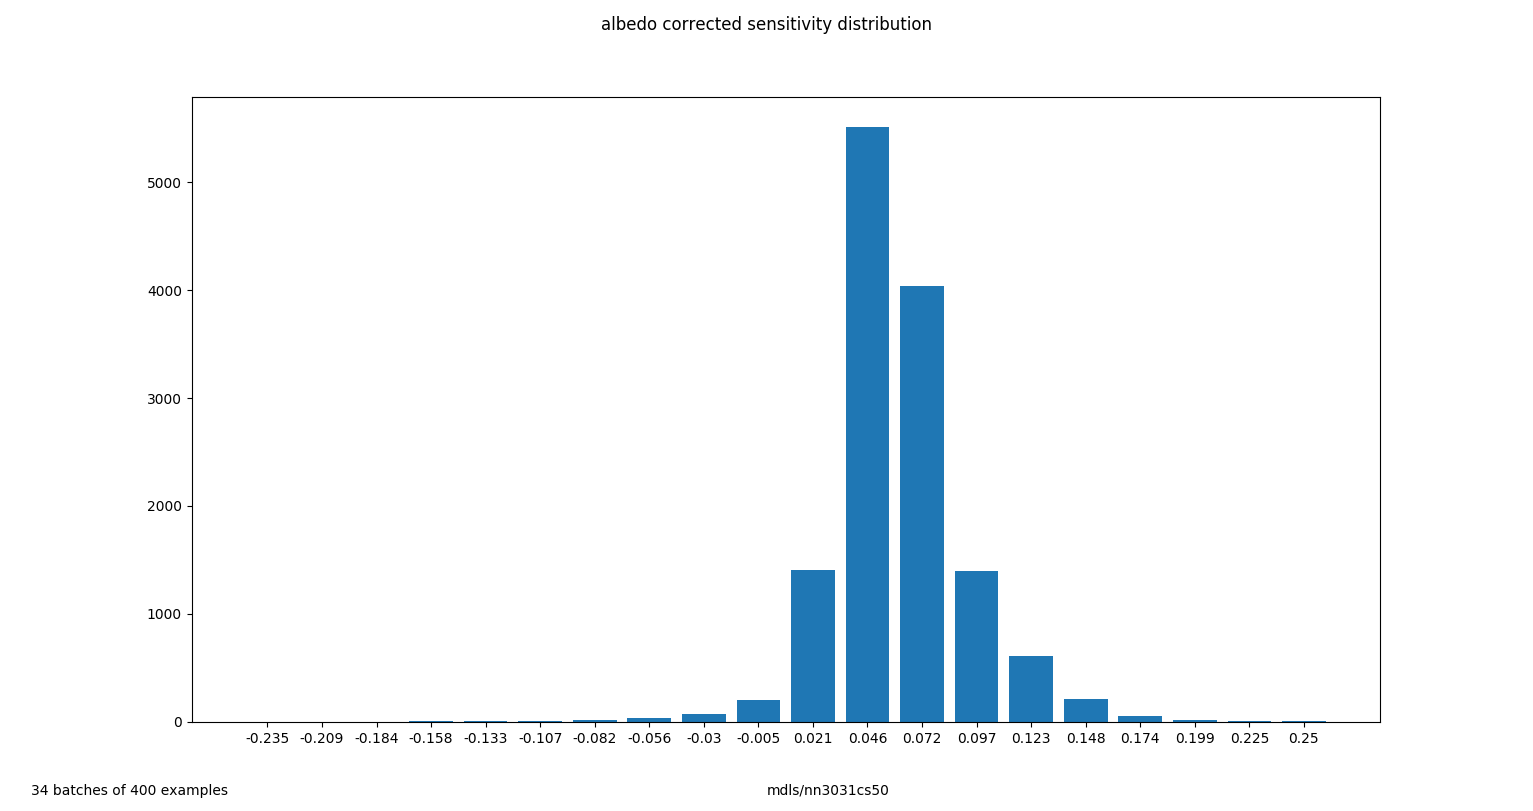
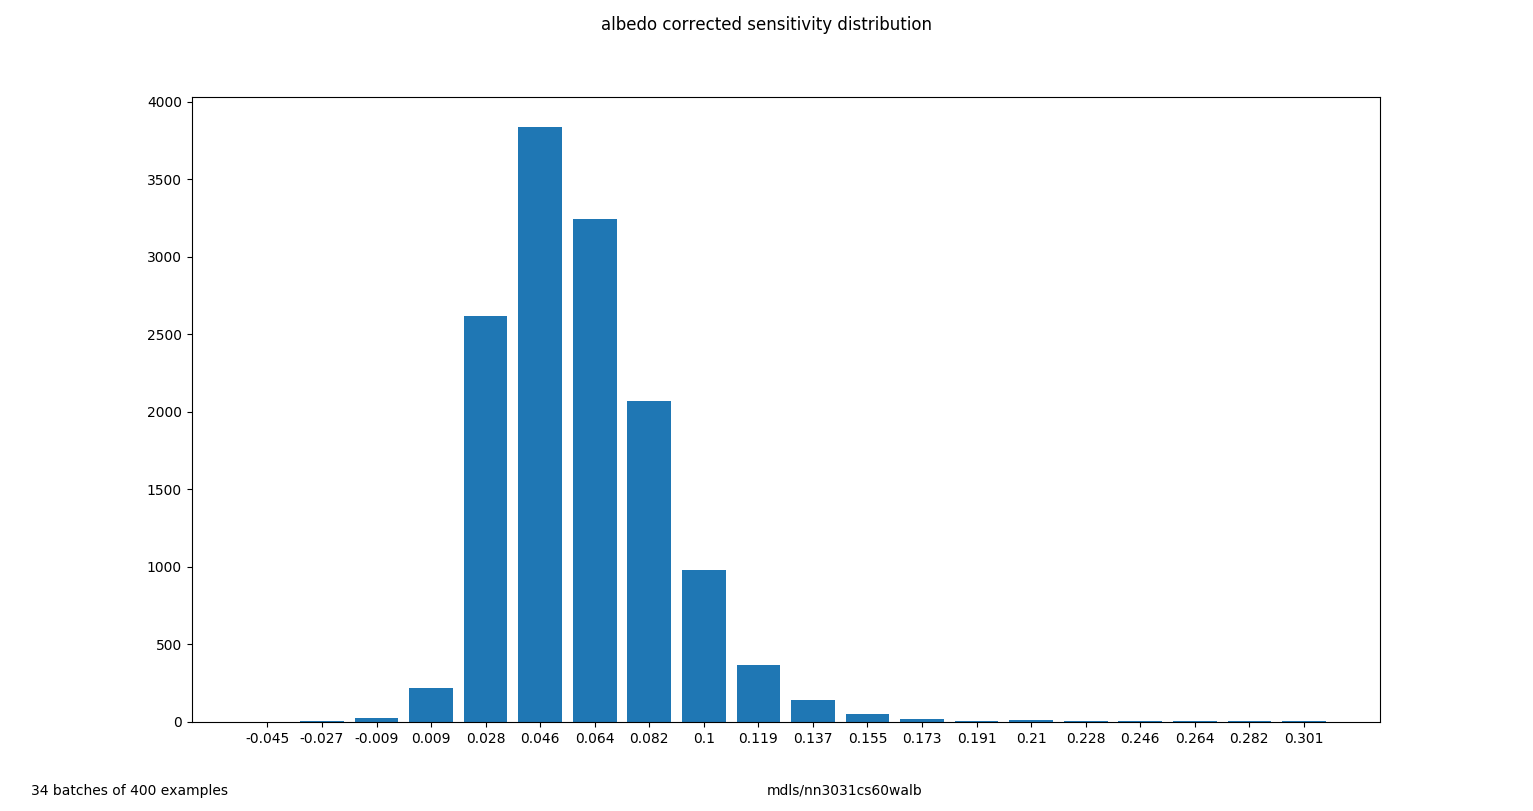
sens distribution best model

diff --git a/wc_test.py b/wc_test.py
@@ -26,7 +26,7 @@ copyright 2019 Nelson 'Buck' Smith
 
 target = 'wc_v2test'
 file_ct = len(os.listdir(target))
-mdl_path = 'mdls/nn3031cs50'
+mdl_path = 'mdls/nn3031cs60walb'
 if True:
   with open(mdl_path +'/params.json', 'r') as fi:
     params = json.load(fi)
@@ -75,7 +75,6 @@ def influence_map(infl_sort, grads):
          infl_ct_hh[gradix] += 1
        elif ix == x_size - 2: 
          infl_ct_h[gradix] += 1
-
 
 def examp_plot(bx, name):
   f_ex, a_ex = plt.subplots(4,1)
@@ -253,6 +252,7 @@ fig_inf_ct = addnote(fig_inf_ct, params)
 
 fig21, axe21 = plt.subplots(1)
 fig21.suptitle('albedo corrected sensitivity distribution')
+pst()
 axe21.bar(range(len(sen_histo[0])), sen_histo[0], align='center', )
 ticklbls = []
 for ix in range(len(sen_histo[1][0:-1])):
